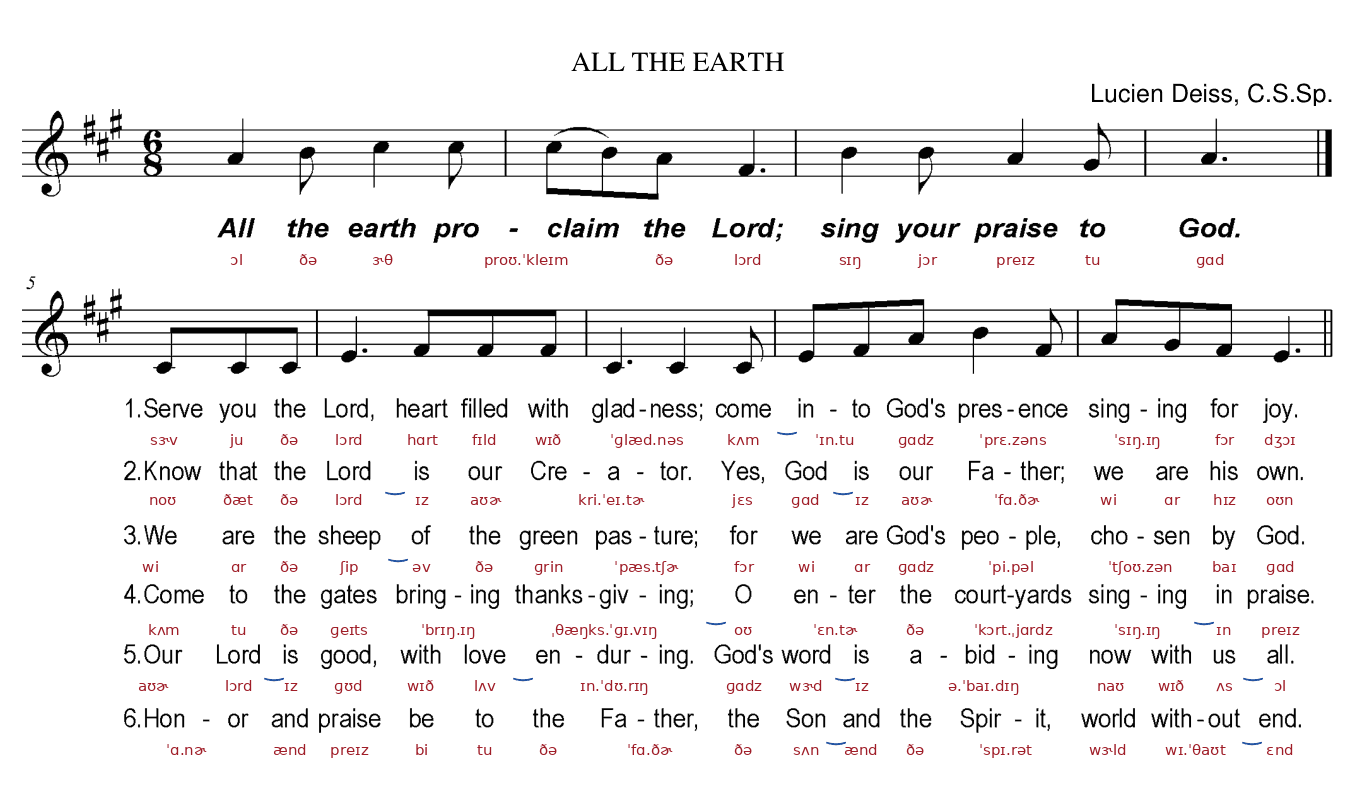
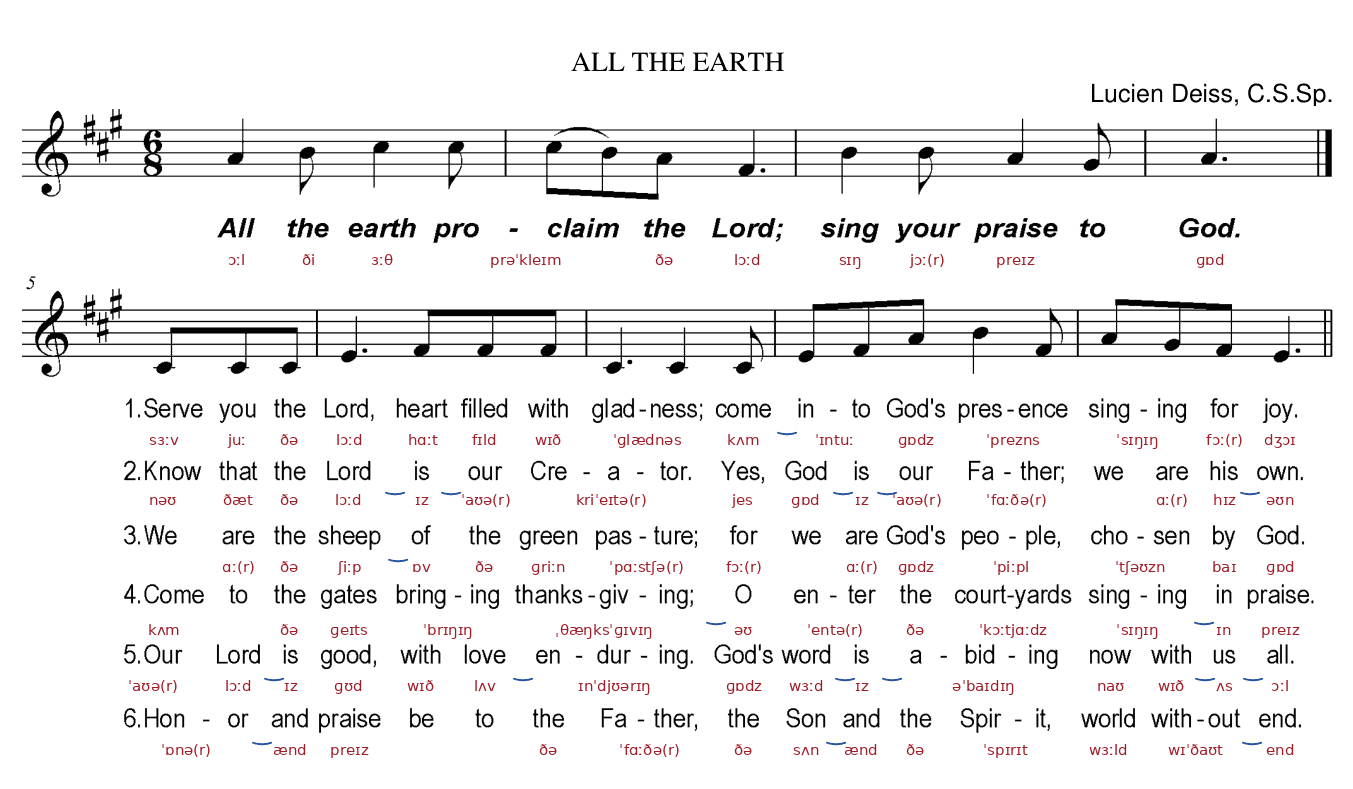
updtae

diff --git a/data.js b/data.js
@@ -10,7 +10,7 @@
    A song left as {} shows "To be announced".
 */
 window.SITE = {
-  updated: "15 Oct 2026, 16:54 (UTC+7)"
+  updated: "15 Oct 2026, 17:02 (UTC+7)"
 };
 
 window.WEEKS = [

diff --git a/tools/ipa/auto_ipa.py b/tools/ipa/auto_ipa.py
@@ -1,13 +1,22 @@
 """ipa_auto.py SHEET.png BANDS_JSON OUT.png [--dry]
-Reads the lyric words from the sheet itself (tesseract OCR), looks up each word in CMUdict,
-converts to American IPA (stress marks + syllable dots) and writes IPA + linking marks (consonant -> vowel)
-under every lyric line. Nothing is typed in by hand except a few overrides for words missing from CMUdict.
+Reads the lyric words from the sheet itself (tesseract OCR), looks each word up in the OXFORD (OALD, British English)
+table kept locally (--oxford DIR containing oxford_bre.py + oxford_bre_extra.py) and writes the IPA + linking marks
+under every lyric line. CMUdict is used only to help glue OCR pieces into words, never for pronunciation.
+Oxford rules: ː long marks, /e/, ɒ əʊ eə ɪə ʊə, syllabic consonants, no syllable dots, (r) shown as OALD writes it;
+strong forms of function words; only I a my me be we so go to he no are left unprinted; the = ðə (ði before a vowel);
+‿ only where a word ends in a consonant sound or linking (r) and the next word begins with a vowel sound.
 BANDS_JSON = list of [ytop, ybottom] bands of the lyric rows (OCR 'top' values)."""
 import csv, json, re, subprocess, sys, cmudict
 from PIL import Image, ImageDraw, ImageFont
 
 src, bands_s, out = sys.argv[1:4]
 dry = '--dry' in sys.argv
+OXDIR = sys.argv[sys.argv.index('--oxford') + 1] if '--oxford' in sys.argv else '.'
+sys.path.insert(0, OXDIR)
+from oxford_bre import OX
+from oxford_bre_extra import OX2
+OXF = {**OX, **OX2}
+SKIP = {'i', 'a', 'my', 'me', 'be', 'we', 'so', 'go', 'to', 'he', 'no'}
 SUBS = json.loads(sys.argv[sys.argv.index('--subs') + 1]) if '--subs' in sys.argv else []
 bands = json.loads(bands_s)
 D = cmudict.dict()
@@ -61,25 +70,10 @@ def syllabify(ph):
 
 def ipa_of(word):
     lw = re.sub(r"[^a-z']", '', word.lower())
-    if lw in WEAK: return WEAK[lw], None
-    if lw in OVRIPA: return OVRIPA[lw], phones(word)
-    ph = phones(word)
-    if ph is None: return None, None
-    syl = syllabify(ph)
-    outs = []
-    for st, seg in syl:
-        s = ''
-        for p in seg:
-            b = re.sub(r'\d', '', p)
-            if p[-1:].isdigit() or b in VOW and p[-1:].isdigit():
-                if b == 'AH': s += 'ʌ' if p[-1] in '12' else 'ə'
-                elif b == 'ER': s += 'ɝ' if p[-1] in '12' else 'ɚ'
-                else: s += VOW[b]
-            else:
-                s += CON[b]
-        mark = 'ˈ' if st == 1 and len(syl) > 1 else ('ˌ' if st == 2 and len(syl) > 2 else '')
-        outs.append(mark + s)
-    return '.'.join(outs), ph
+    if lw == 'the': return 'ðə', phones(word)
+    if lw == 'a': return 'ə', None
+    if lw in OXF: return OXF[lw], None
+    return None, None
 
 
 # ---------- OCR ----------
@@ -161,13 +155,18 @@ for words in lines:
         L.append((w, ipa, ph))
     res.append(L)
 
-VOWELS = set(VOW)
-def starts_vowel(ph, q):
-    if ph: return re.sub(r'\d', '', ph[0]) in VOWELS
-    return q[0] in 'aeiou'
-def ends_cons(ph, q):
-    if ph: return re.sub(r'\d', '', ph[-1]) not in VOWELS
-    return False
+VCH = set('aeiouæɑɒɔəɛɜɪʊʌ')
+def first_sound_vowel(ipa):
+    t = ipa.lstrip('ˈˌ(')
+    return bool(t) and t[0] in VCH
+def last_sound_cons(ipa):
+    if ipa.endswith('(r)'): return True
+    t = ipa.replace('ː', '')
+    return bool(t) and t[-1] not in VCH
+for L in res:
+    for k, (w, ipa, ph) in enumerate(L):
+        if w['q'].lower() == 'the' and k + 1 < len(L) and first_sound_vowel(L[k + 1][1]): L[k] = (w, 'ði', ph)
+def shown(w): return w['q'].lower() not in SKIP
 
 for n, L in enumerate(res):
     s = ' | '.join(f"{w['q']}[{ipa}]" for w, ipa, ph in L)
@@ -192,10 +191,10 @@ for L, c, o in zip(res, cuts, offs):
     base_y = c + o
     for k, (w, ipa, ph) in enumerate(L):
         cx = (w['x'] + w['x2']) / 2; tw = d.textlength(ipa, font=f)
-        d.text((cx - tw / 2, base_y + 3), ipa, font=f, fill=RED)
+        if shown(w): d.text((cx - tw / 2, base_y + 3), ipa, font=f, fill=RED)
         if k + 1 < len(L):
-            w2, _, ph2 = L[k + 1]
-            if ends_cons(ph, w['q']) and starts_vowel(ph2, w2['q']):
+            w2, ipa2, ph2 = L[k + 1]
+            if last_sound_cons(ipa) and ipa != '?' and first_sound_vowel(ipa2):
                 cx2 = (w['x2'] + w2['x']) / 2
                 d.text((cx2 - 7, c - 19 + o), '‿', font=fl, fill=BLUE); nlinks += 1
 new = new.quantize(32, dither=Image.Dither.NONE)
